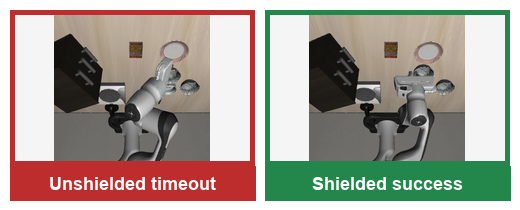
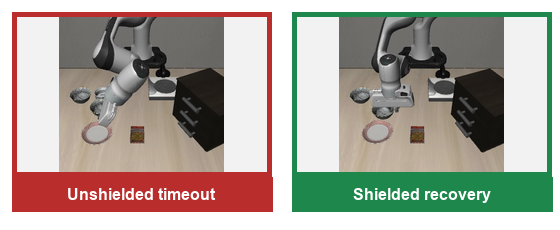
Clarify phase3 visual gallery

diff --git a/index.html b/index.html
@@ -228,11 +228,17 @@
           <h2>B6 layer-11 helps under stress, but the trigger is still too eager.</h2>
           <p>
             These short clips come from the latest Phase 3 B6 conceptor-flow
-            shield evaluation. The success videos show recovery under action
-            noise; the timeout clip shows the remaining failure mode when
-            intervention is poorly timed or insufficient.
+            shield evaluation. The image gallery summarizes every qualitative
+            case: red frames are unshielded or shielded timeouts, while green
+            frames are shielded recoveries where the residual correction helps
+            the policy finish the task.
           </p>
         </div>
+
+        <figure class="wide-figure">
+          <img src="assets/phase3_outcome_gallery.png" alt="Six rotated rollout snapshots labeling unshielded timeouts, shielded recoveries, shielded success, and shielded timeout.">
+          <figcaption><strong>Qualitative outcome map.</strong> Red = no recovery or timeout. Green = shield/recovery success. The important result is not that the shield always wins, but that it can rescue hard action-noise rollouts while still failing when triggering is poorly timed.</figcaption>
+        </figure>
 
         <figure class="wide-figure">
           <img src="assets/phase3_video_rescue_comparison.png" alt="Paired unshielded timeout versus shielded success rollout thumbnails.">

diff --git a/README.md b/README.md
@@ -49,8 +49,9 @@ http://localhost:8000
 Current page status:
 
 - Poster QR code points to `https://github.com/TinaLand?tab=repositories`.
-- The online demo section includes paired B6 layer-11 rescue videos, shielded
-  success/failure clips, and reference task success/failure clips.
+- The online demo section includes a rotated qualitative outcome gallery, paired
+  B6 layer-11 rescue videos, shielded success/failure clips, and reference task
+  success/failure clips.
 - The experiment tables use the final poster Phase 3 framing: post-retrain
   B6 layer-11 shielding rescues harder action-noise tasks, but easy/high-baseline
   tasks expose the current gating problem. The page frames this as: residual

diff --git a/EXPERIMENT_SUMMARY.md b/EXPERIMENT_SUMMARY.md
@@ -201,8 +201,10 @@ Qualitative demo videos:
 - `demo_videos/pair_ep001_unshielded_fail.mp4` vs.
   `demo_videos/pair_ep001_shielded_success.mp4` shows a second paired rescue
   case.
-- `assets/phase3_video_rescue_comparison.png` is the poster-ready thumbnail
-  summary of these paired rollouts.
+- `assets/phase3_outcome_gallery.png` summarizes all qualitative outcome images
+  with rotated snapshots and explicit shield/recovery/failure labels.
+- `assets/phase3_video_rescue_comparison.png` is the paired-rescue thumbnail
+  summary for the poster and website.
 
 Interpretation:
 
